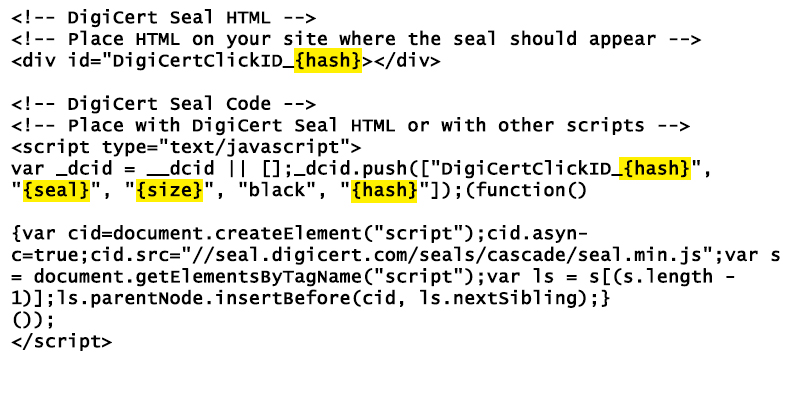
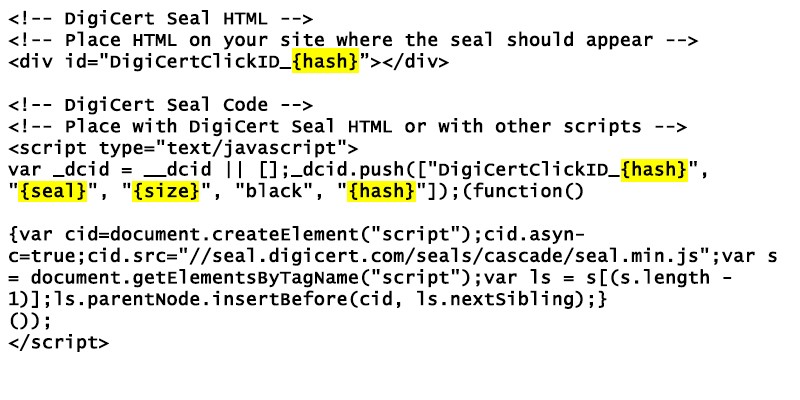
updated code and screenshot (#1276)

Changed region(s): [[0.0, 0.54, 1.0, 0.87], [0.0, 0.24, 0.9062, 0.51], [0.0, 0.03, 0.875, 0.21]]

diff --git a/content/how-to/general/add-a-site-seal-code-to-your-website/index.md b/content/how-to/general/add-a-site-seal-code-to-your-website/index.md
@@ -24,7 +24,7 @@ You can use the following code example to add a site seal to your website:
 ```javascript
 <!-- DigiCert Seal HTML -->
 <!-- Place HTML on your site where the seal should appear -->
-<div id="DigiCertClickID_{hash}></div>
+<div id="DigiCertClickID_{hash}"></div>
 
 <!-- DigiCert Seal Code -->
 <!-- Place with DigiCert Seal HTML or with other scripts -->
